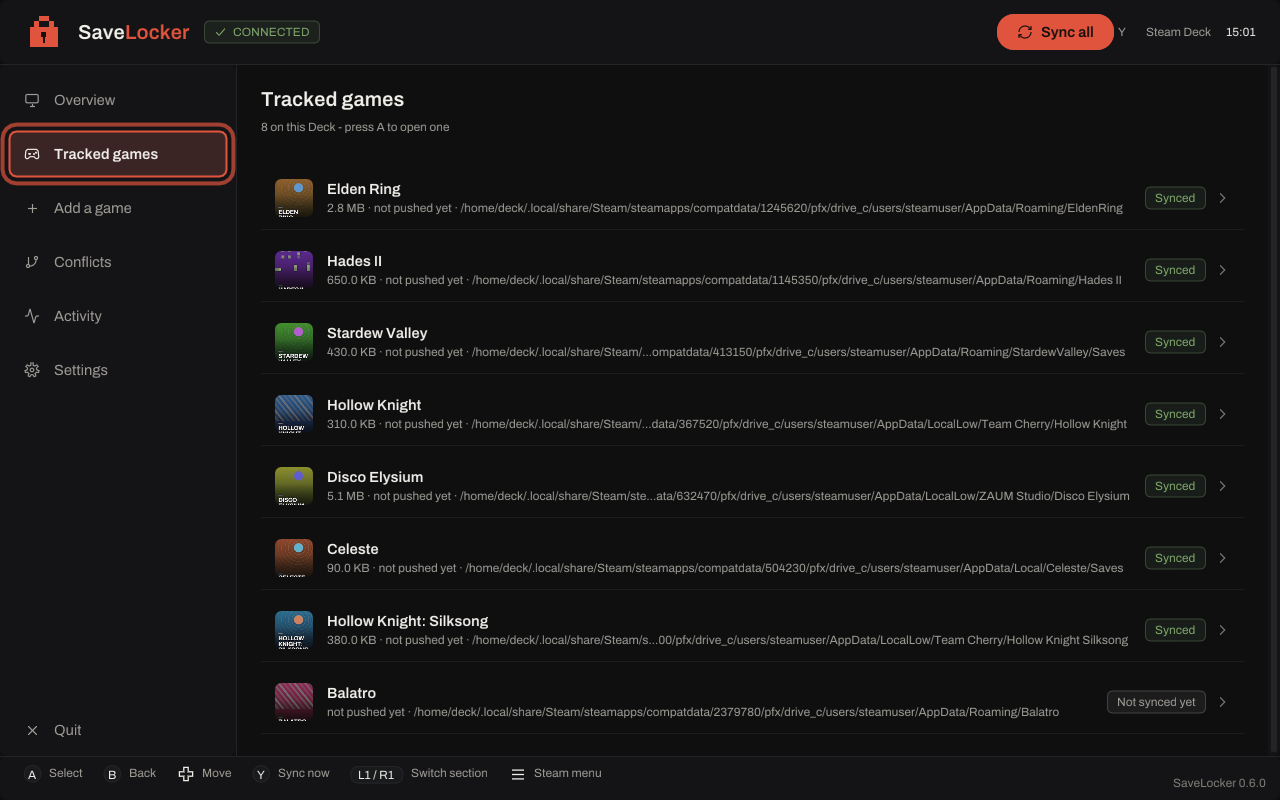
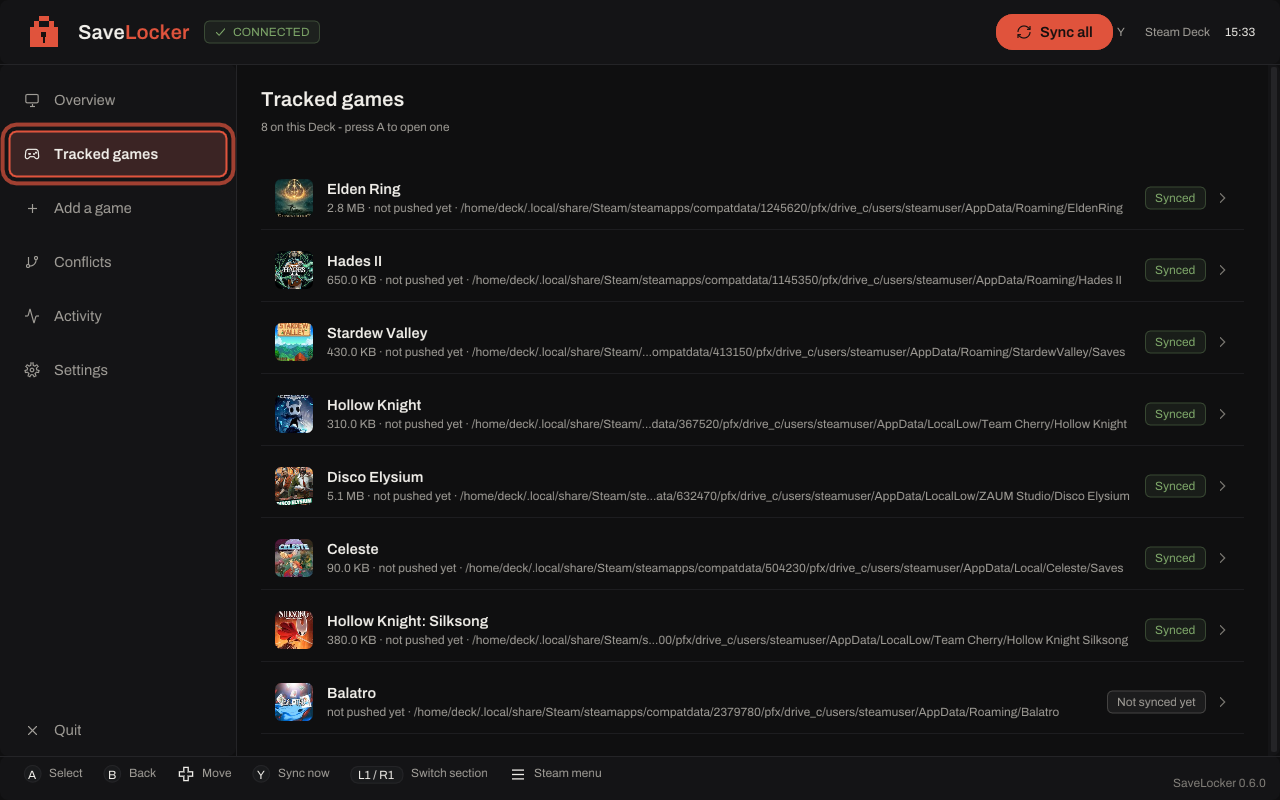
README screenshots retaken with real SteamGridDB art
Every console, agent and Game Mode shot now shows the games' own covers,
heroes and logos fetched from SteamGridDB instead of generated
placeholders, and 007 First Light replaces Baldur's Gate 3 in the
showcase fleet. The art note under the tour credits SteamGridDB.

diff --git a/README.md b/README.md
@@ -87,7 +87,7 @@ A gamepad-native UI that launches from your Steam library — no keyboard, no De
 |---|---|---|
 | ![Deck overview](docs/screenshots/deck-overview.png) | ![Deck tracked games](docs/screenshots/deck-games.png) | ![Deck game page](docs/screenshots/deck-game.png) |
 
-<sub>Screenshots are from the project's own test rig with placeholder cover art.</sub>
+<sub>Screenshots are from the project's own test rig. Cover art from <a href="https://www.steamgriddb.com/">SteamGridDB</a>; game titles and art belong to their respective owners.</sub>
 
 ---
 
